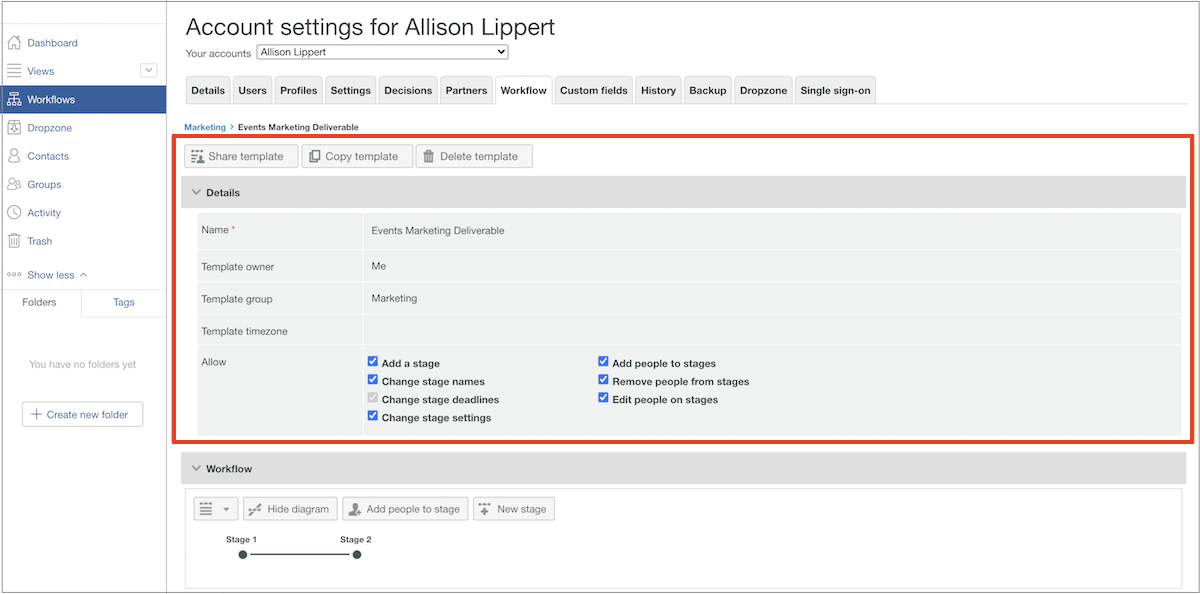
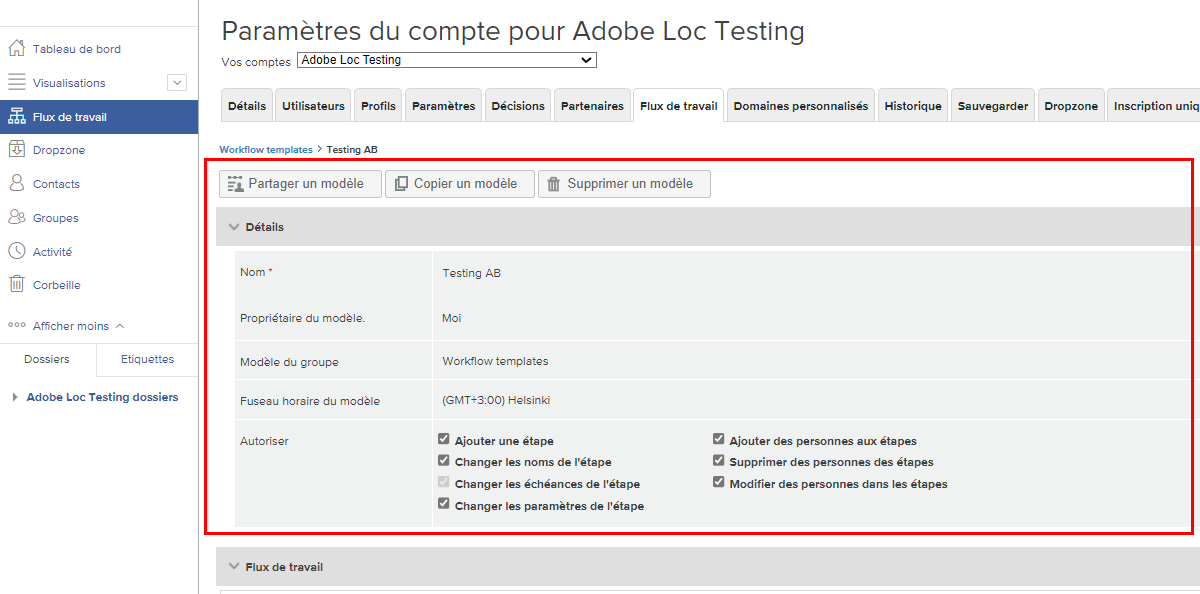
Updated by task 'AUTO_HANDOFF_1723460280476'  Changes for core/source commit https://git.corp.adobe.com/AdobeDocs/workfront-learn.en/commit/f2256fcc19d64247c79126c39acc202b4aff6f96

diff --git a/help/workfront-proof/administration-and-setup/edit-an-automated-workflow-template.md b/help/workfront-proof/administration-and-setup/edit-an-automated-workflow-template.md
@@ -13,9 +13,9 @@ jira: KT-8831
 exl-id: 03841b1f-741d-4427-ae84-ddb9f890fc95
 doc-type: video
 source-git-commit: 55edb8b797583f93f405c9c6b69422b818c90cdc
-workflow-type: tm+mt
+workflow-type: ht
 source-wordcount: '572'
-ht-degree: 61%
+ht-degree: 100%
 
 ---
 
@@ -23,18 +23,18 @@ ht-degree: 61%
 
 Au fur et à mesure que les processus de révision et d&#39;approbation de BAT sont affinés ou que des changements organisationnels sont apportés, les modèles de workflow automatisés doivent être mis à jour pour refléter les opérations actuelles de vos équipes utilisant Workfront.
 
-Garder les modèles à jour garantit la cohérence de vos processus de révision et d’approbation, et permet aux utilisateurs de gagner du temps lors du téléchargement des BAT, car ils n’ont pas à ajuster constamment un workflow.
+La mise à jour des modèles permet de garantir la cohérence de vos processus de révision et d’approbation et permet aux personnes qui importent les épreuves de gagner du temps, car elles n’ont pas à ajuster constamment leur workflow.
 
 1. Sélectionnez **[!UICONTROL Vérification]** dans le **[!UICONTROL Menu principal]** dans [!DNL Workfront].
 1. À partir de là, sélectionnez **[!UICONTROL Workflows]** dans le menu du panneau de gauche.
 1. Cliquez sur le menu à 3 points situé à droite du nom du modèle et sélectionnez **[!UICONTROL Afficher les détails du modèle]**.
 
-Les options de partage, de copie et de suppression du modèle se trouvent en haut de la fenêtre des détails du modèle pour chaque modèle. La suppression d&#39;un modèle n&#39;affecte pas les BAT en cours auxquels ce modèle est appliqué, mais cela signifie que le modèle n&#39;est plus disponible.
+Les options de partage, de copie et de suppression du modèle se trouvent en haut de la fenêtre des détails du modèle pour chaque modèle. La suppression d’un modèle n’affecte pas les épreuves en cours sur lesquels ce modèle est appliqué, mais le modèle ne pourra plus être utilisé.
 
 ![Fenêtre des détails du modèle](assets/proof-system-setup-edit-templates-details-area.png)
 
 
-Cliquez sur la flèche située à gauche du mot &quot;[!UICONTROL Details]&quot; pour développer ou réduire la section.
+Cliquez sur la flèche située à gauche du mot « [!UICONTROL Détails] » pour développer ou réduire la section.
 
 ## Modifier les étapes et les destinataires
 
@@ -42,18 +42,18 @@ Des modifications peuvent être nécessaires dans la zone [!UICONTROL Workflow] 
 
 Chaque étape d’un workflow automatisé comporte sa propre section, qui permet de modifier indépendamment les échéances, la confidentialité, les personnes destinataires du BAT et d’autres informations.
 
-Cette vidéo présente quelques-uns des changements que vous pouvez effectuer dans la zone [!UICONTROL Workflow]. Reportez-vous à la liste à puces sous cette vidéo, qui examine ces paramètres.
+Cette vidéo présente brièvement certaines des modifications que vous pouvez apporter dans la zone [!UICONTROL Workflow]. Reportez-vous à la liste à puces figurant sous cette vidéo, qui passe en revue ces paramètres.
 
 >[!VIDEO](https://video.tv.adobe.com/v/335131/?quality=12&learn=on)
 
 Pour rappel, voici les modifications que vous pouvez apporter au modèle de BAT dans la section [!UICONTROL Workflow] :
 
-* Pour mettre à jour ces informations, cliquez dans le champ du nom de l’étape ou du champ d’échéance.
-* Cliquez sur la flèche située à gauche de l’échéance pour verrouiller l’étape, déterminer à quel moment elle est activée ou ne nécessiter qu’une seule décision.
+* Cliquez sur le champ Nom de l’étape ou Date d’échéance pour mettre à jour ces informations.
+* Cliquez sur la flèche à gauche de la date d’échéance pour verrouiller l’étape, déterminer le moment où l’étape sera activée, ou exiger qu’elle ne nécessite qu’une seule décision.
 * Dans la liste des destinataires, cliquez sur les champs [!UICONTROL Rôle] ou [!UICONTROL Alertes e-mail] pour sélectionner une autre option.
-* Accédez au menu à 3 points situé à l’extrémité droite du nom d’un destinataire pour le supprimer de la liste, en faire le principal décideur de l’étape de ce workflow ou modifier le rôle du BAT et les informations d’alerte par courrier électronique.
-* Vous avez deux options pour ajouter des destinataires à la liste.
-   1. Dans le coin supérieur droit de chaque section d’étape, accédez au menu [!UICONTROL Plus] et sélectionnez [!UICONTROL Ajouter des personnes à l’étape]. Une fois que vous avez ouvert la fenêtre [!UICONTROL Ajouter des personnes à l’étape] , cliquez sur l’étape à laquelle les ajouter. Saisissez ensuite leur nom ou leur adresse e-mail dans la liste des destinataires et attribuez un rôle de BAT et une alerte par e-mail. Cliquez sur le bouton [!UICONTROL Ajouter des personnes] lorsque vous avez terminé.
+* Le menu à trois points situé complètement à droite du nom des destinataires permet de les supprimer de la liste, d’en faire les principaux responsables de la prise de décision pour cette étape du workflow, ou de modifier le rôle de l’épreuve et les informations relatives à l’alerte par e-mail.
+* Vous avez deux possibilités pour ajouter des destinataires à la liste.
+   1. Dans le coin supérieur droit de chaque section d’étape, accédez au menu [!UICONTROL Plus] et sélectionnez [!UICONTROL Ajouter des personnes à l’étape]. Une fois que vous avez ouvert la fenêtre [!UICONTROL Ajouter des personnes à l’étape], cliquez sur l’étape à laquelle vous souhaitez les ajouter. Saisissez ensuite leur nom ou leur adresse e-mail dans la liste des destinataires et attribuez un rôle de BAT et une alerte par e-mail. Cliquez sur le bouton [!UICONTROL Ajouter des personnes] lorsque vous avez terminé.
    1. En haut de la zone [!UICONTROL Workflow], sélectionnez [!UICONTROL Ajouter des personnes à l’étape].
 
 ## Partage de modèles
